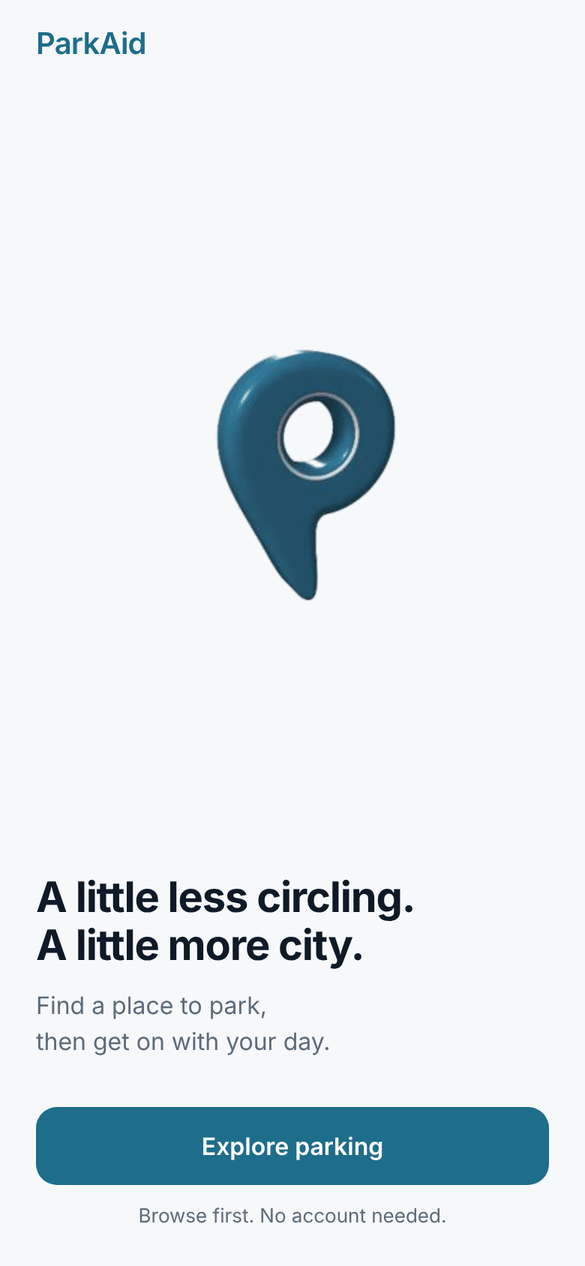
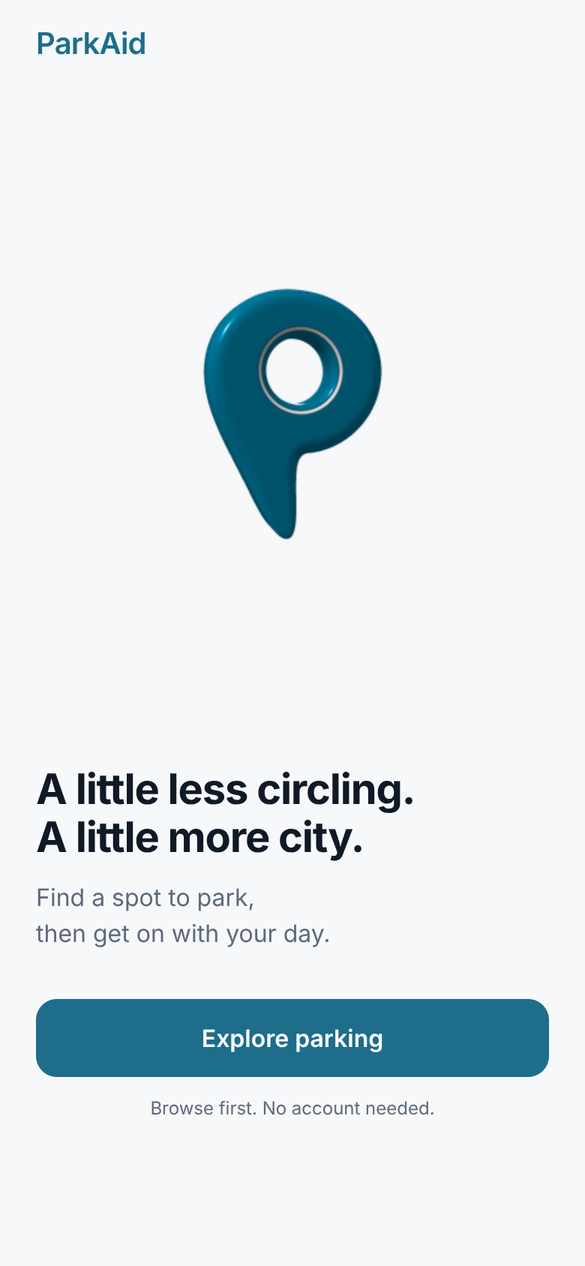
polish(mobile): final pass, and the README screenshots re-shot
- Both maps say "Spots around downtown" and "Closest to downtown" when
  they fell back to downtown (no permission, no fix, or outside
  Calgary), as Home already did. The phone map now checks Calgary's
  reach too, and saves its fix in the same shape as Home.
- The walk warning keeps its number with its unit ("a 2 minute walk"
  no longer breaks after the 2).
- Welcome says "Find a spot to park", the app's one noun.
- Web loads a no-op reminders module instead of expo-notifications,
  which only warned on web that it cannot listen for push tokens.
- The API no longer logs every request in production.
- docs/screens re-shot from the current build, on a weekday afternoon so
  prices apply, with alt text for the changed screens.

Claude-Session: https://claude.ai/code/session_01BAqhrSuRcLcLiCVgthGree

Changed region(s): [[0.0615, 0.5853, 0.9538, 0.9858], [0.3385, 0.2156, 0.6769, 0.4929]]

diff --git a/mobile/src/screens/MapScreen/index.js b/mobile/src/screens/MapScreen/index.js
@@ -24,7 +24,8 @@ import { MOTION, TOKENS } from '../../constants/theme';
 // logs
 import { useFilters } from '../../context/FilterContext';
 import { apiTypeFor, applyType } from '../../utils/filters';
-import { distanceMeters, nearestSpot } from '../../utils/geo';
+import { LOCATION_STORAGE_KEY } from '../../constants/parking';
+import { distanceMeters, isInCalgary, nearestSpot } from '../../utils/geo';
 import { logger } from '../../utils/loggers';
 import { pickTopSpot, rankSpots } from '../../utils/spotPresentation';
 
@@ -73,6 +74,8 @@ function MapScreen({ route, navigation }) {
     // data state
     const [region, setRegion] = useState(DEFAULT_LOCATION);
     const [userLocation, setUserLocation] = useState(null);
+    // The map fell back to downtown (no permission, no fix, or outside Calgary).
+    const [fromDowntown, setFromDowntown] = useState(false);
     // Type and distance, shared with Home (context/FilterContext).
     const { type: filterType, setType: setFilterType, radius: searchRadius, setRadius: setSearchRadius } = useFilters();
     const [selectedSpot, setSelectedSpot] = useState(null);
@@ -113,6 +116,7 @@ function MapScreen({ route, navigation }) {
                 if (status !== 'granted') {
                     setUserLocation(DEFAULT_LOCATION);
                     setRegion(DEFAULT_LOCATION);
+                    setFromDowntown(true);
                     // important: fallback location to keep app usable
                     logger.log('location_fallback_default', DEFAULT_LOCATION, 'WARN');
                     return;
@@ -127,14 +131,27 @@ function MapScreen({ route, navigation }) {
                     latitudeDelta: 0.01,
                     longitudeDelta: 0.01,
                 };
+                // Outside Calgary there is no City data: show downtown, and say so.
+                if (!isInCalgary(coords)) {
+                    setUserLocation(DEFAULT_LOCATION);
+                    setRegion(DEFAULT_LOCATION);
+                    setFromDowntown(true);
+                    return;
+                }
                 setUserLocation(coords);
                 setRegion(coords);
-                await AsyncStorage.setItem('userLocation', JSON.stringify(coords));
+                // The same shape Home's useLocationManager saves.
+                await AsyncStorage.setItem(LOCATION_STORAGE_KEY, JSON.stringify({
+                    latitude: coords.latitude,
+                    longitude: coords.longitude,
+                    savedAt: Date.now(),
+                }));
                 // important: capture starting coordinates for debugging
                 logger.log('location_acquired', { lat: coords.latitude, lng: coords.longitude }, 'INFO');
             } catch {
                 setUserLocation(DEFAULT_LOCATION);
                 setRegion(DEFAULT_LOCATION);
+                setFromDowntown(true);
                 // important: catch-all failure path with fallback
                 logger.log('location_error_fallback_default', DEFAULT_LOCATION, 'ERROR');
             }
@@ -455,6 +472,7 @@ function MapScreen({ route, navigation }) {
                 selectedSpot={selectedSpot}
                 featuredSpot={featuredSpot}
                 searchMode={searchMode}
+                fromDowntown={fromDowntown}
                 searchRadius={searchRadius}
                 onPeekHeightChange={setSheetPeekHeight}
                 tabBarHeight={tabBarHeight}

diff --git a/mobile/src/screens/MapScreen/components/ParkingBottomSheet.js b/mobile/src/screens/MapScreen/components/ParkingBottomSheet.js
@@ -48,6 +48,8 @@ const ParkingBottomSheet = forwardRef(({
     selectedSpot,
     featuredSpot,
     searchMode,
+    // The search is around downtown, not the driver (see MapScreen).
+    fromDowntown = false,
     searchRadius,
     onItemPress,
     onViewSpot,
@@ -274,7 +276,7 @@ const ParkingBottomSheet = forwardRef(({
     const featured = featuredSpot ? {
         reason: selectedSpot?.id === featuredSpot.id
             ? 'Selected'
-            : pinned ? 'Closest to your pin' : 'Closest to you',
+            : pinned ? 'Closest to your pin' : fromDowntown ? 'Closest to downtown' : 'Closest to you',
         name: getSpotName(featuredSpot).title,
         // Zone and walk fit one line; the maximum stay is on Details.
         meta: [getZoneLabel(featuredSpot), getWalkLabel(featuredSpot)]
@@ -316,7 +318,7 @@ const ParkingBottomSheet = forwardRef(({
                 <View style={styles.headerContent}>
                     <View style={styles.headerInfo}>
                         <Text style={styles.headerTitle} accessibilityRole="header">
-                            {pinned ? 'Spots around your pin' : 'Spots around you'}
+                            {pinned ? 'Spots around your pin' : fromDowntown ? 'Spots around downtown' : 'Spots around you'}
                         </Text>
                         <Text style={styles.headerSubtitle} numberOfLines={1}>
                             {countLine}

diff --git a/mobile/src/screens/WelcomeScreen/index.js b/mobile/src/screens/WelcomeScreen/index.js
@@ -77,7 +77,7 @@ export default function WelcomeScreen({ navigation }) {
                         A little less circling.{'\n'}A little more city.
                     </Animated.Text>
                     <Animated.Text style={[styles.body, rise[1]]}>
-                        Find a place to park,{'\n'}then get on with your day.
+                        Find a spot to park,{'\n'}then get on with your day.
                     </Animated.Text>
 
                     <Animated.View style={[styles.footer, rise[2]]}>

diff --git a/mobile/src/services/reminders.web.js b/mobile/src/services/reminders.web.js
@@ -1,0 +1,13 @@
+// reminders (web) — browsers here cannot schedule notifications, so the
+// in-app warning carries on alone (see reminders.js). Not importing
+// expo-notifications also keeps its push-token warning out of the console.
+
+export const REMINDERS_SUPPORTED = false;
+
+export async function cancelSessionReminders() {}
+
+export async function remindersBlocked() {
+    return false;
+}
+
+export async function scheduleSessionReminders() {}

diff --git a/mobile/src/screens/SessionScreen/components/ActiveSession/TimerCard.js b/mobile/src/screens/SessionScreen/components/ActiveSession/TimerCard.js
@@ -53,7 +53,8 @@ export default function TimerCard({ session, sessionState, timeRemainingMs, endT
         .join(' · ');
 
     const warning = walk
-        ? `Time to head back. It’s about a ${walk} minute walk to your car.`
+        // A no-break space keeps the number with its unit when the line wraps.
+        ? `Time to head back. It’s about a ${walk}\u00A0minute walk to your car.`
         : 'Time to head back to your car.';
 
     return (

diff --git a/mobile/src/screens/MapScreen/index.web.js b/mobile/src/screens/MapScreen/index.web.js
@@ -169,6 +169,7 @@ export default function MapScreen({ route, navigation }) {
                 selectedSpot={selectedSpot}
                 featuredSpot={featuredSpot}
                 searchMode={place ? 'pinned' : 'current'}
+                fromDowntown={source === 'default' || source === 'outside'}
                 onClearPin={() => setPlace(null)}
                 searchRadius={radius}
                 onPeekHeightChange={setPeek}

diff --git a/mobile/src/services/api.js b/mobile/src/services/api.js
@@ -107,8 +107,6 @@ class ParkingAPI {
     const timeout = setTimeout(() => controller.abort(), options.timeout || REQUEST_TIMEOUT);
 
     try {
-      console.log(`Fetching: ${url}`);
-
       let response;
       try {
         response = await fetch(url, {

diff --git a/README.md b/README.md
@@ -38,11 +38,11 @@ needs one setting to reach it (`EXPO_PUBLIC_API_URL`).
 
 | Welcome | Home | Map |
 | --- | --- | --- |
-| <img src="docs/screens/01-welcome.png" width="240" alt="Welcome screen with the ParkAid pin and an Explore parking button"> | <img src="docs/screens/02-home.png" width="240" alt="Home with a greeting, search, sort chips and a suggested spot"> | <img src="docs/screens/03-map.png" width="240" alt="Map with priced pins and a selected spot in the bottom sheet"> |
+| <img src="docs/screens/01-welcome.png" width="240" alt="Welcome screen with the ParkAid pin and an Explore parking button"> | <img src="docs/screens/02-home.png" width="240" alt="Home with a greeting, search, sort chips and a suggested spot"> | <img src="docs/screens/03-map.png" width="240" alt="Map with priced, lot and permit pins and a selected spot in the bottom sheet"> |
 
 | Details | Park | Session |
 | --- | --- | --- |
-| <img src="docs/screens/04-details.png" width="240" alt="Details for a street block: rate, zone, walk and maximum stay"> | <img src="docs/screens/05-park-setup.png" width="240" alt="Session setup with plate, duration, end time and total"> | <img src="docs/screens/06-session.png" width="240" alt="Running session with time left, end time and an Extend button"> |
+| <img src="docs/screens/04-details.png" width="240" alt="Details for a street block: rate, zone, walk and maximum stay"> | <img src="docs/screens/05-park-setup.png" width="240" alt="Session setup with plate, duration, end time, cost and where to pay"> | <img src="docs/screens/06-session.png" width="240" alt="Running session with time left, where to pay in ParkPlus and an Add 30 min button"> |
 
 Captured from the web build with sample data. On web the map is a drawn
 preview; the live Google map runs on iOS and Android.
